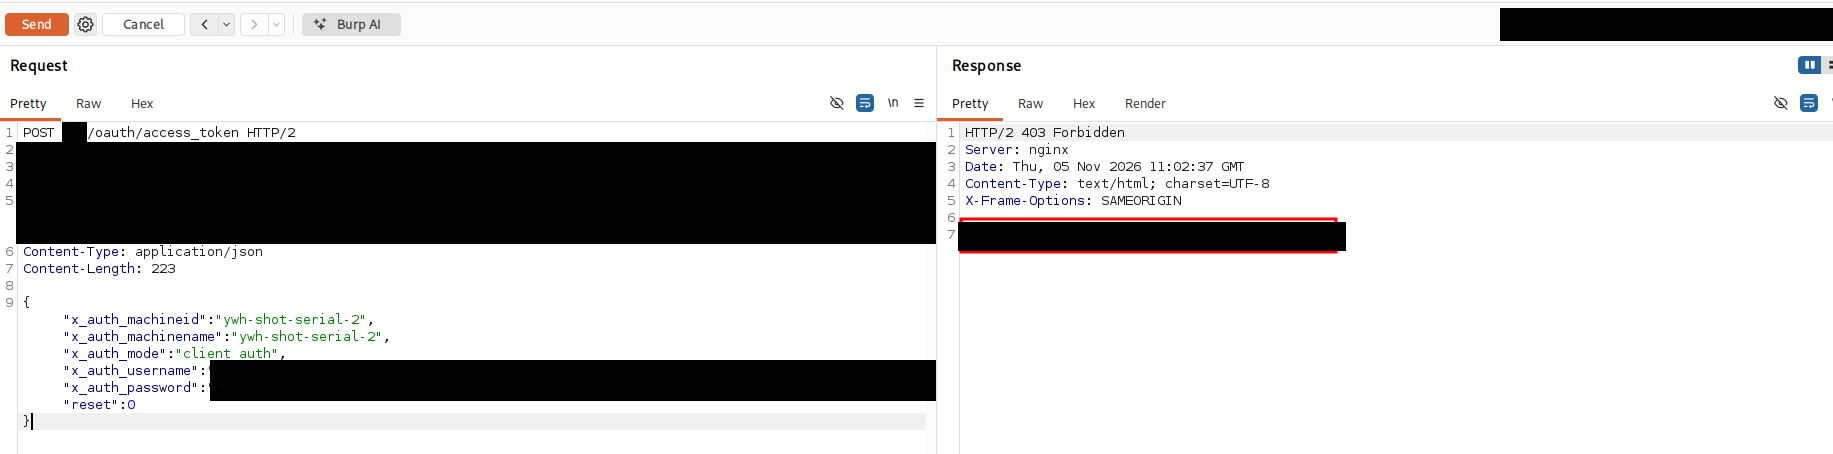
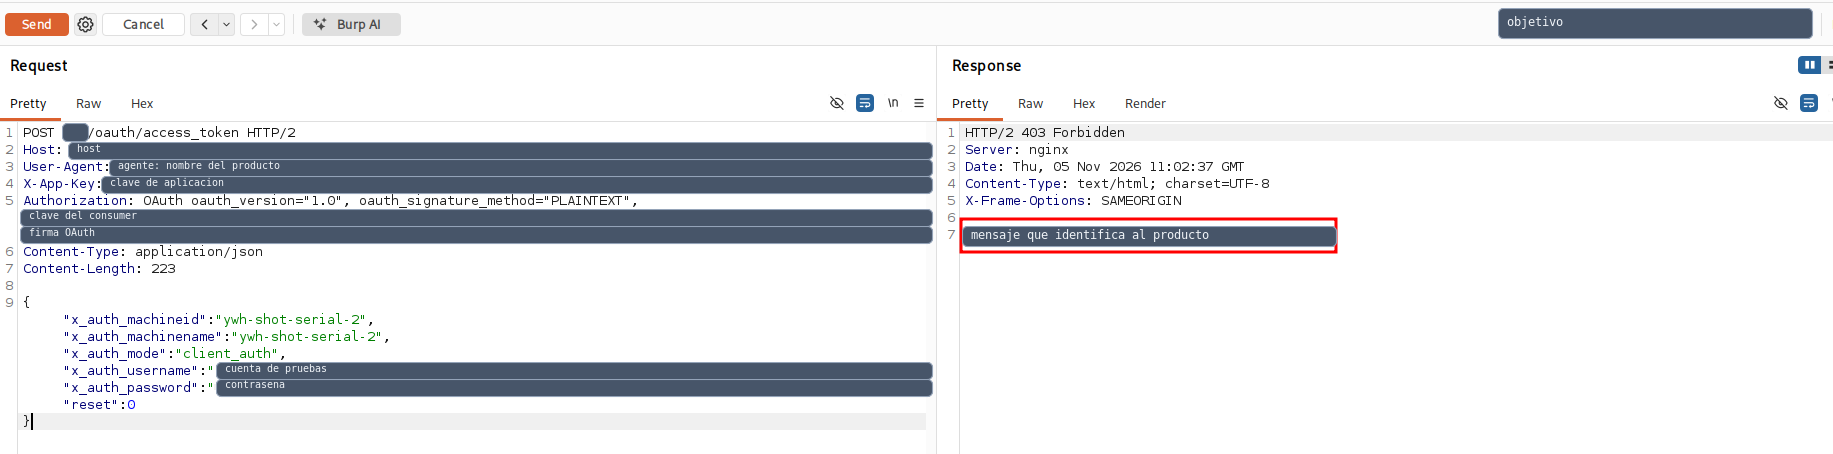
censura con banda etiquetada en vez de rectangulo negro
Un negro liso solo dice "aqui falta algo", tapa de mas y queda feo en una
pagina que la gente va a mirar. Ahora se tapa el VALOR y no la linea: se ven
Host:, User-Agent:, X-App-Key:, "token", "users_id", "internal_name", y la
banda que los sustituye lleva escrito que habia detras.

Eso ademas informa: en la captura del control negativo ahora se lee que la
peticion va firmada con OAuth en PLAINTEXT, que el cuerpo es JSON y que no
hay cookie, cosas que antes quedaban debajo del bloque negro.

Intento fallido que queda documentado en _admin/censura.py: separar bandas
contiguas dejando 2 px de hueco arriba y abajo. Al ampliar se veia que por
ese hueco asomaban las puntas de las letras. La banda vuelve a cubrir la
linea entera y la separacion la hace un borde dibujado SOBRE la banda, que
no descubre nada.

La herramienta queda en _admin/censura.py para el resto de carpetas.

Changed region(s): [[0.0, 0.2467, 0.7463, 0.5551], [0.0933, 0.7709, 0.5286, 0.8943], [0.8085, 0.0, 1.0, 0.0925]]

diff --git a/_admin/censura.py b/_admin/censura.py
@@ -1,0 +1,79 @@
+#!/usr/bin/env python3
+"""Censura de capturas con etiqueta, en vez de un rectangulo negro.
+
+Dos ideas:
+
+1. **Se tapa el VALOR, no la linea.** `Host:` se queda, su valor no. Asi el
+   lector ve la forma de la peticion —que va firmada con OAuth, que el cuerpo
+   es JSON, que no hay cookie— y solo se pierde lo confidencial.
+
+2. **La banda dice lo que habia.** Un negro liso solo dice "aqui falta algo".
+   Una banda que pone `host` o `firma OAuth` informa y ademas parece
+   deliberada, no un borron.
+
+Regla que no se negocia: relleno OPACO al 100 %, nunca pixelado ni desenfoque,
+que son reversibles. Y la banda se extiende hasta el borde del panel, para que
+un valor mas largo de lo que yo calcule no pueda asomar por la derecha.
+"""
+import subprocess
+from pathlib import Path
+
+# tonos del propio sitio, para que la captura no desentone con la pagina
+BANDA = "#475569"        # pizarra media: se ve sobre fondo claro y sobre oscuro
+BORDE = "#94a3b8"        # borde claro: separa dos bandas seguidas sin abrir hueco
+TEXTO = "#f1f5f9"
+MONO = "/usr/share/fonts/truetype/dejavu/DejaVuSansMono.ttf"
+
+
+class Censura:
+    """Acumula las zonas a tapar de una captura y las dibuja de una vez."""
+
+    def __init__(self, origen: Path, recorte=None):
+        self.origen = Path(origen)
+        self.recorte = recorte          # (x, y, ancho, alto)
+        self.zonas = []                 # (x1, y1, x2, y2, etiqueta)
+
+    def tapar(self, x1, y1, x2, y2, etiqueta=""):
+        """Zona rectangular. La etiqueta se escribe dentro si cabe."""
+        self.zonas.append((x1, y1, x2, y2, etiqueta))
+        return self
+
+    def valor(self, x, y_arriba, y_abajo, hasta, etiqueta=""):
+        """El valor de una cabecera: desde x hasta el borde del panel.
+
+        `hasta` es el borde derecho del panel de texto. Llegar hasta ahi evita
+        que un valor mas largo de lo calculado asome por detras de la banda.
+
+        La banda cubre la linea ENTERA, sin margen. Se probo dejar 2 px arriba
+        y abajo para separar bandas contiguas y se vio, al ampliar, que por ese
+        hueco asomaban las puntas de las letras. Dos bandas seguidas se separan
+        con el borde, que va dibujado sobre la propia banda y no descubre nada.
+        """
+        return self.tapar(x, y_arriba, hasta, y_abajo, etiqueta)
+
+    def guardar(self, destino: Path):
+        destino = Path(destino)
+        destino.parent.mkdir(parents=True, exist_ok=True)
+        cmd = ["convert", str(self.origen)]
+        if self.recorte:
+            x, y, w, h = self.recorte
+            cmd += ["-crop", f"{w}x{h}+{x}+{y}", "+repage"]
+
+        for x1, y1, x2, y2, etiqueta in self.zonas:
+            alto, ancho = y2 - y1, x2 - x1
+            r = min(5, alto // 3)
+            cmd += ["-fill", BANDA, "-stroke", BORDE, "-strokewidth", "1",
+                    "-draw", f"roundrectangle {x1},{y1} {x2},{y2} {r},{r}",
+                    "-stroke", "none"]
+            # la etiqueta solo si la banda es lo bastante grande para leerla
+            cuerpo = min(12, max(8, alto - 7))
+            if etiqueta and alto >= 14 and ancho >= len(etiqueta) * cuerpo * 0.62 + 16:
+                cmd += ["-fill", TEXTO, "-font", MONO, "-pointsize", str(cuerpo),
+                        "-gravity", "NorthWest",
+                        "-annotate", f"+{x1 + 9}+{y1 + (alto - cuerpo) // 2 - 1}", etiqueta]
+        cmd += ["-gravity", "NorthWest", "-strip", str(destino)]
+        subprocess.run(cmd, check=True)
+        dim = subprocess.run(["identify", "-format", "%wx%h", str(destino)],
+                             capture_output=True, text=True, check=True).stdout
+        print(f"  {destino.name:30} {dim:>10}  {len(self.zonas)} zonas")
+        return destino
